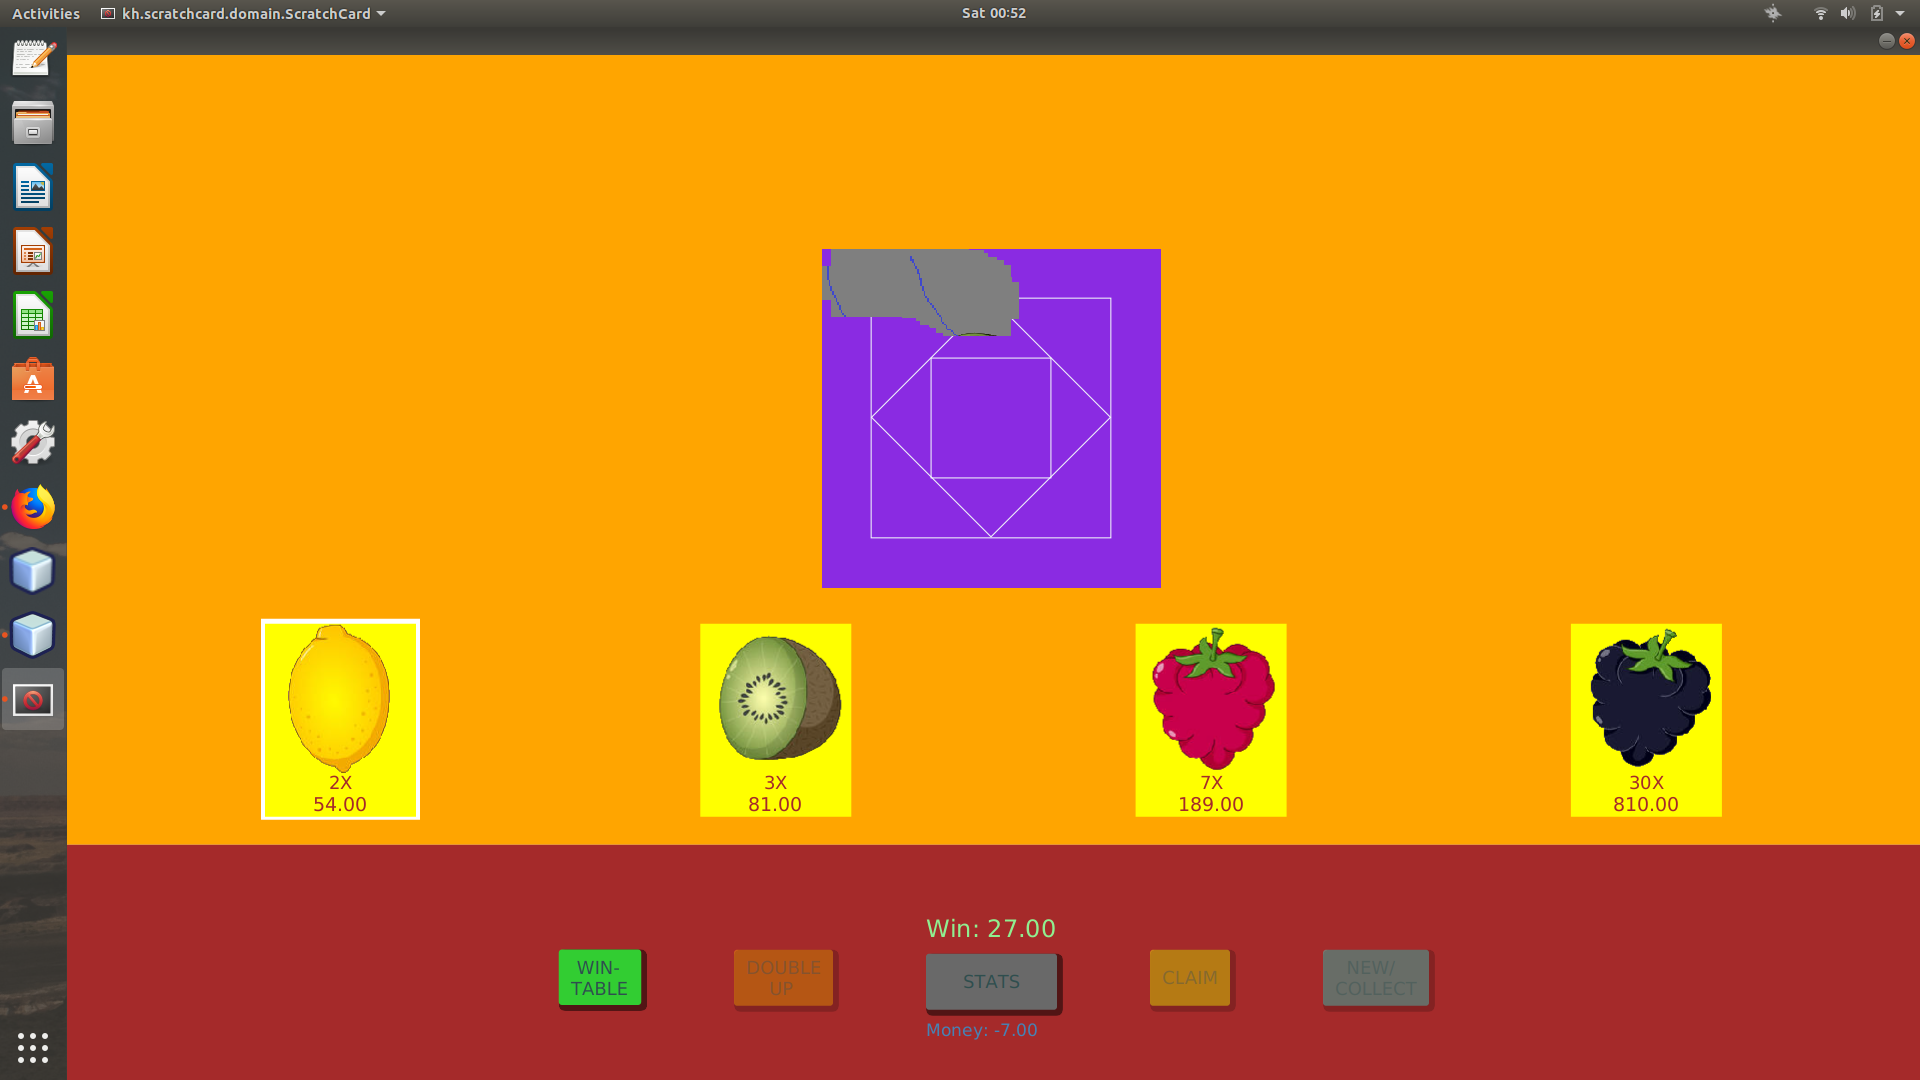
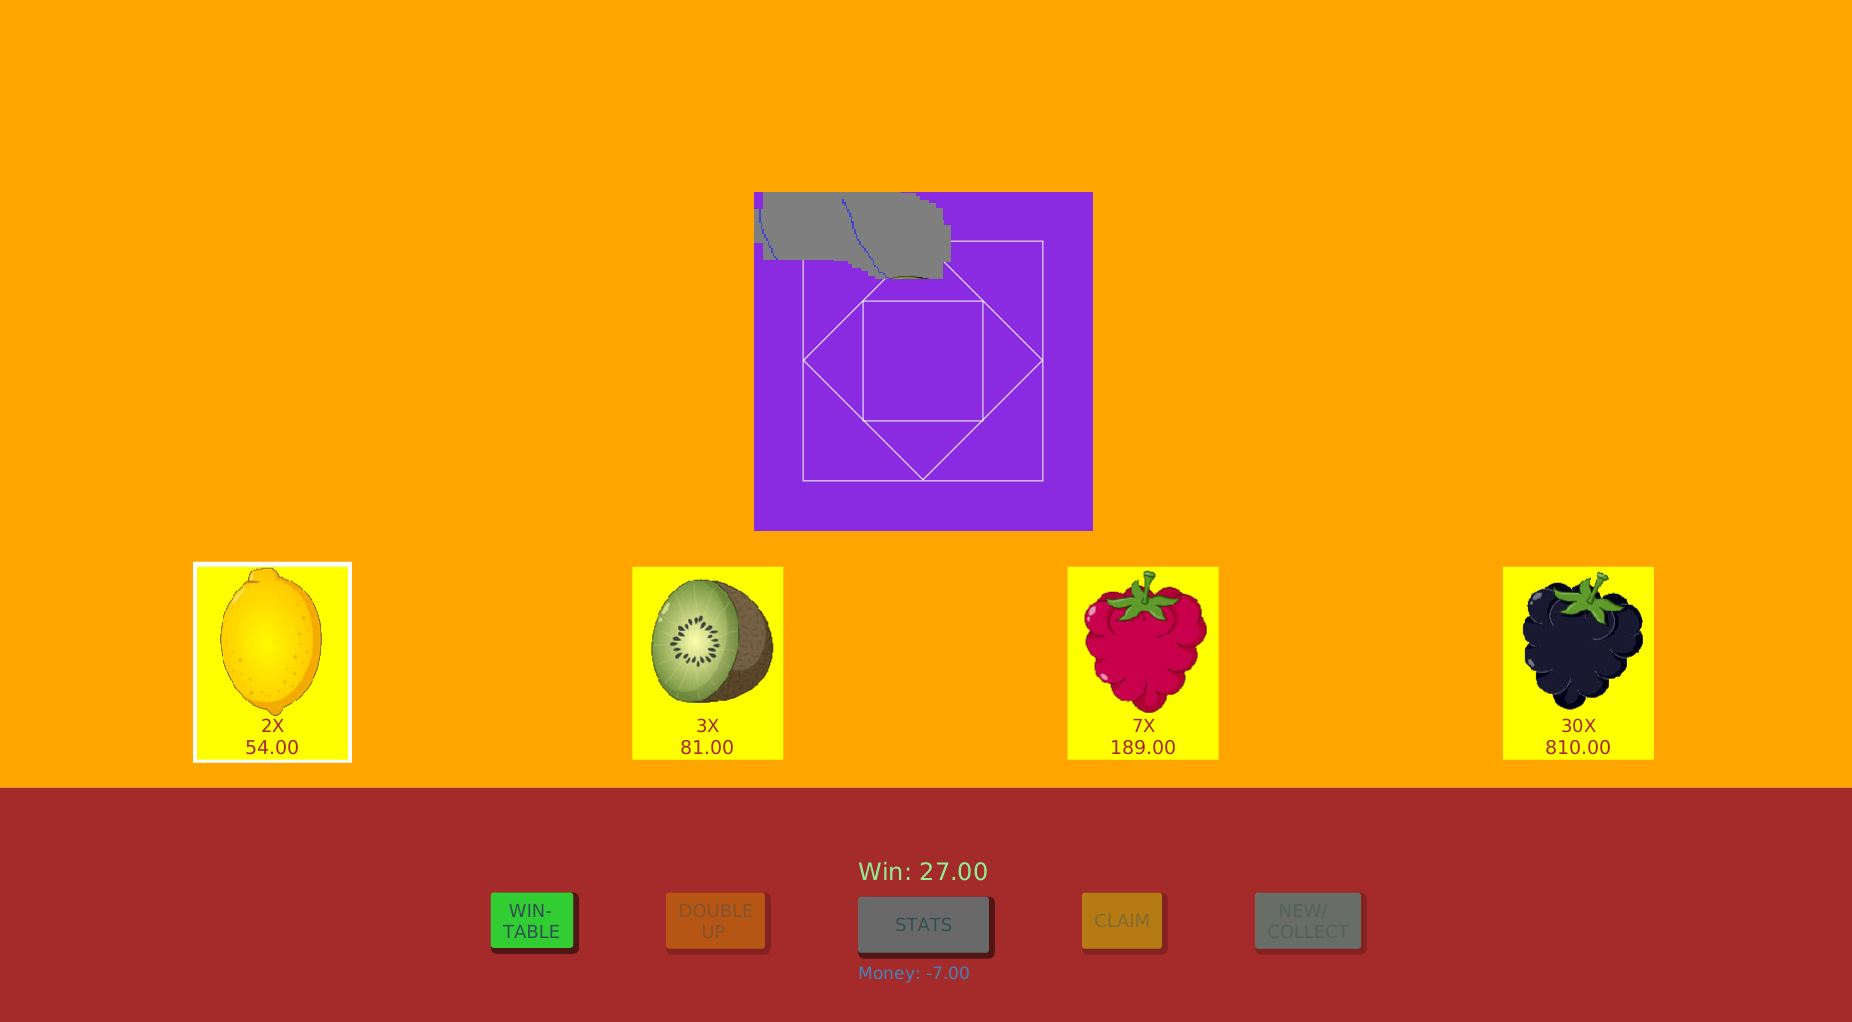
images update

diff --git a/dokumentaatio/kayttoohje.md b/dokumentaatio/kayttoohje.md
@@ -18,7 +18,7 @@ java -jar ScratchCard.jar
 
 Sovellus käynnistyy aloitusnäkymään:
 
-<img src="https://github.com/hartzka/ot-harjoitustyo/blob/master/dokumentaatio/kuvat/Screenshot10.png">
+<img src="https://github.com/hartzka/ot-harjoitustyo/blob/master/dokumentaatio/kuvat/Screenshot9.png">
 
 ## Uuden arvan ostaminen ja pelin aloittaminen
 
